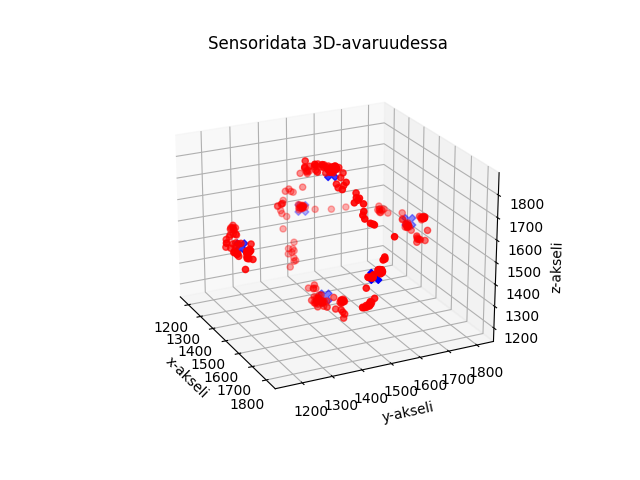
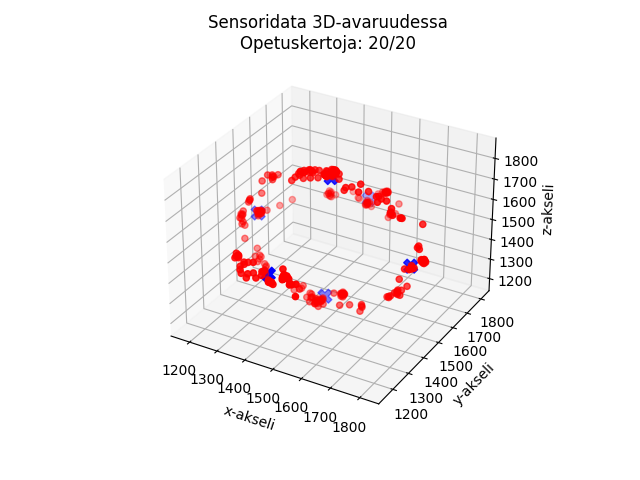
Kuva 4. päivitetty

Changed region(s): [[0.25, 0.2188, 0.875, 0.9062], [0.3125, 0.0312, 0.7188, 0.125]]

diff --git a/README.md b/README.md
@@ -42,6 +42,6 @@ K-means opetusalgoritmillä sensoridatasta saadaan tunnistettua ja luokiteltua k
  <img alt="Sensordata3D_luokiteltu" src="Sensordata3D_luokiteltu.png">
 </picture>
 
-*Kuva 4. Sensoridata ja opetetut keskipisteet 50 opetuskerran jälkeen.* 
+*Kuva 4. Sensoridata ja opetetut keskipisteet 20 opetuskerran jälkeen.* 
 
-Kuvasta 4 nähdään, että keskipisteet ovat sijoittuneet oikeisiin paikkoihin. Arvotuista keksipisteistä sekä sensoridatan vaihtelusta (jonka teimme tarkoituksella) johtuen, luokittelu ei aina onnistu edes 50:ään opetuskerralla.
+Kuvasta 4 nähdään, että keskipisteet ovat sijoittuneet oikeisiin paikkoihin. Arvotuista keksipisteistä johtuen, luokittelu ei aina onnistu edes 50:ään opetuskerralla.
